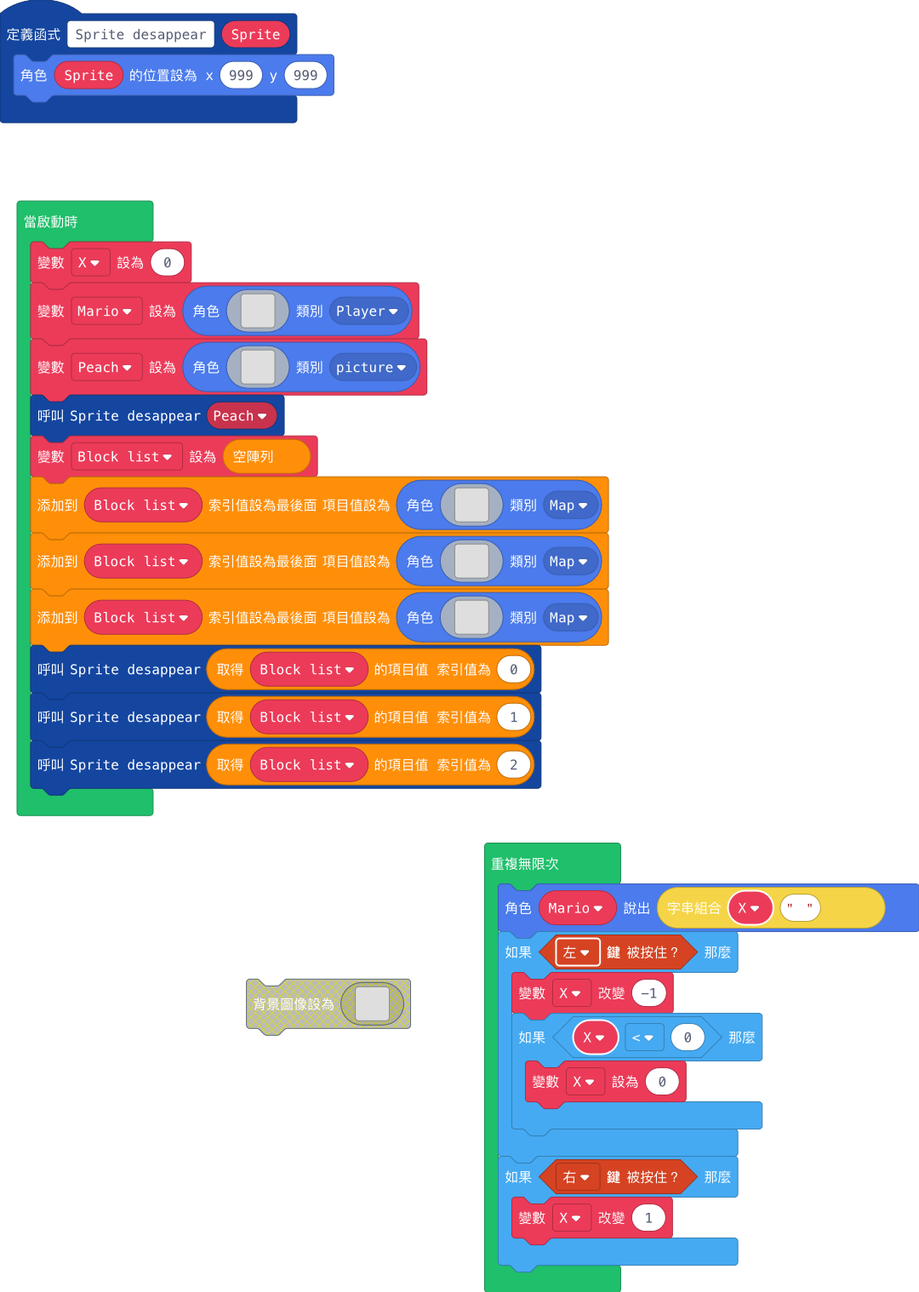
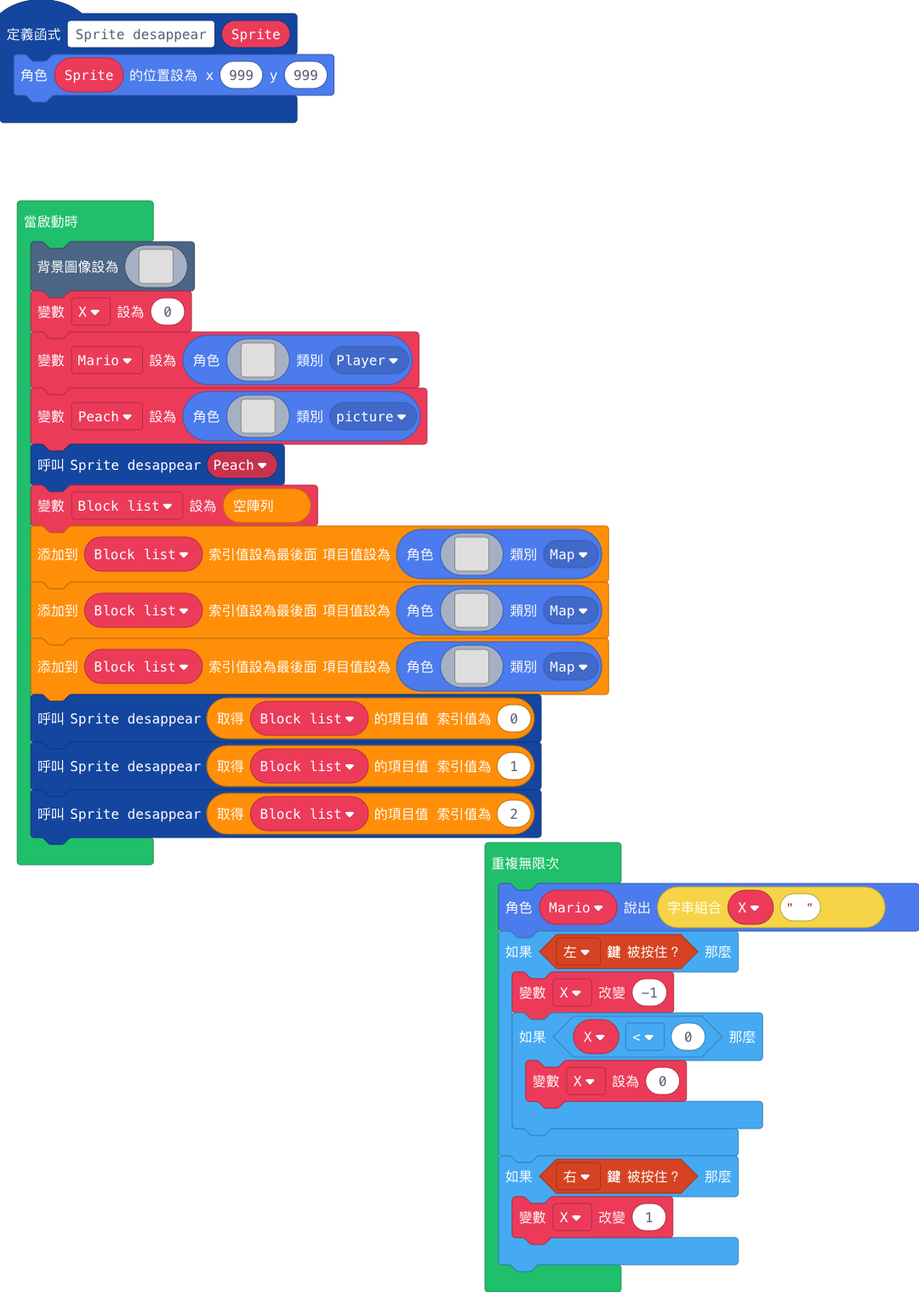
Update main.blocks, main.ts

diff --git a/main.ts b/main.ts
@@ -5,6 +5,128 @@ namespace SpriteKind {
 function Sprite_desappear (Sprite2: Sprite) {
     Sprite2.setPosition(999, 999)
 }
+scene.setBackgroundImage(img`
+9 9 9 9 9 9 9 9 9 9 9 9 9 9 9 9 9 9 9 9 9 9 9 9 9 9 9 9 9 9 9 9 9 9 9 9 9 9 9 9 9 9 9 9 9 9 9 9 9 9 9 9 9 9 9 9 9 9 9 9 9 9 9 9 9 9 9 9 9 9 9 9 9 9 9 9 9 9 9 9 9 9 9 9 9 9 9 9 9 9 9 9 9 9 9 9 9 9 9 9 9 9 9 9 9 9 9 9 9 9 9 9 9 9 9 9 9 9 9 9 9 9 9 9 9 9 9 9 9 9 9 9 9 9 9 9 9 9 9 9 9 9 9 9 9 9 9 9 9 9 9 9 9 9 9 9 9 9 9 9 
+9 9 9 9 9 9 9 9 9 9 9 9 9 9 9 9 9 9 9 9 9 9 9 9 9 9 9 9 9 9 9 9 9 9 9 9 9 9 9 9 9 9 9 9 9 9 9 9 9 9 9 9 9 9 9 9 9 9 9 9 9 9 9 9 9 9 9 9 9 9 9 9 9 9 9 9 9 9 9 9 9 9 9 9 9 9 9 9 9 9 9 9 9 9 9 9 9 9 9 9 9 9 9 9 9 9 9 9 9 9 9 9 9 9 9 9 9 9 9 9 9 9 9 9 9 9 9 9 9 9 9 9 9 9 9 9 9 9 9 9 9 9 9 9 9 9 9 9 9 9 9 9 9 9 9 9 9 9 9 9 
+9 9 9 9 9 9 9 9 9 9 9 9 9 9 9 9 9 9 9 9 9 9 9 9 9 9 9 9 9 9 9 9 9 9 9 9 9 9 9 9 9 9 9 9 9 9 9 9 9 9 9 9 9 9 9 9 9 9 9 9 9 9 9 9 9 9 9 9 9 9 9 9 9 9 9 9 9 9 9 9 9 9 9 9 9 9 9 9 9 9 9 9 9 9 9 9 9 9 9 9 9 9 9 9 9 9 9 9 9 9 9 9 9 9 9 9 9 9 9 9 9 9 9 9 9 9 9 9 9 9 9 9 9 9 9 9 9 9 9 9 9 9 9 9 9 9 9 9 9 9 9 9 9 9 9 9 9 9 9 9 
+9 9 9 9 9 9 9 9 9 9 9 9 9 9 9 9 9 9 9 9 9 9 9 9 9 9 9 9 9 9 9 9 9 9 9 9 9 9 9 9 9 9 9 9 9 9 9 9 9 9 9 9 9 9 9 9 9 9 9 9 9 9 9 9 9 9 9 9 9 9 9 9 9 9 9 9 9 9 9 9 9 9 9 9 9 9 9 9 9 9 9 9 9 9 9 9 9 9 9 9 9 9 9 9 9 9 9 9 9 9 9 9 9 9 9 9 9 9 9 9 9 9 9 9 9 9 9 9 9 9 9 9 9 9 9 9 9 9 9 9 9 9 9 9 9 9 9 9 9 9 9 9 9 9 9 9 9 9 9 9 
+9 9 9 9 9 9 9 9 9 9 9 9 9 9 9 9 9 9 9 9 9 9 9 9 9 9 9 9 9 9 9 9 9 9 9 9 9 9 9 9 9 9 9 9 9 9 9 9 9 9 9 9 9 9 9 9 9 9 9 9 9 9 9 9 9 9 9 9 9 9 9 9 9 9 9 9 9 9 9 9 9 9 9 9 9 9 9 9 9 9 9 9 9 9 9 9 9 9 9 9 9 9 9 9 9 9 9 9 9 9 9 9 9 9 9 9 9 9 9 9 9 9 9 9 9 9 9 9 9 9 9 9 9 9 9 9 9 9 9 9 9 9 9 9 9 9 9 9 9 9 9 9 9 9 9 9 9 9 9 9 
+9 9 9 9 9 9 9 9 9 9 9 9 9 9 9 9 9 9 9 9 9 9 9 9 9 9 9 9 9 9 9 9 9 9 9 9 9 9 9 9 9 9 9 9 9 9 9 9 9 9 9 9 9 9 9 9 9 9 9 9 9 9 9 9 9 9 9 9 9 9 9 9 9 9 9 9 9 9 9 9 9 9 9 9 9 9 9 9 9 9 9 9 9 9 9 9 9 9 9 9 9 9 9 9 9 9 9 9 9 9 9 9 9 9 9 9 9 9 9 9 9 9 9 9 9 9 9 9 9 9 9 9 9 9 9 9 9 9 9 9 9 9 9 9 9 9 9 9 9 9 9 9 9 9 9 9 9 9 9 9 
+9 9 9 9 9 9 9 9 9 9 9 9 9 9 9 9 9 9 9 9 9 9 9 9 9 9 9 9 9 9 9 9 9 9 9 9 9 9 9 9 9 9 9 9 9 9 9 9 9 9 9 9 9 9 9 9 9 9 9 9 9 9 9 9 9 9 9 9 9 9 9 9 9 9 9 9 9 9 9 9 9 9 9 9 9 9 9 9 9 9 9 9 9 9 9 9 9 9 9 9 9 9 9 9 9 9 9 9 9 9 9 9 9 9 9 9 9 9 9 9 9 9 9 9 9 9 9 9 9 9 9 9 9 9 9 9 9 9 9 9 9 9 9 9 9 9 9 9 9 9 9 9 9 9 9 9 9 9 9 9 
+9 9 9 9 9 9 9 9 9 9 9 9 9 9 9 9 9 9 9 9 9 9 9 9 9 9 9 9 9 9 9 9 9 9 9 9 9 9 9 9 9 9 9 9 9 9 9 9 9 9 9 9 9 9 9 9 9 9 9 9 9 9 9 9 9 9 9 9 9 9 9 9 9 9 9 9 9 9 9 9 9 9 9 9 9 9 9 9 9 9 9 9 9 9 9 9 9 9 9 9 9 9 9 9 9 9 9 9 9 9 9 9 9 9 9 9 9 9 9 9 9 9 9 9 9 9 9 9 9 9 9 9 9 9 9 9 9 9 9 9 9 9 9 9 9 9 9 9 9 9 9 9 9 9 9 9 9 9 9 9 
+9 9 9 9 9 9 9 9 9 9 9 9 9 9 9 9 9 9 9 9 9 9 9 9 9 9 9 9 9 9 9 9 9 9 9 9 9 9 9 9 9 9 9 9 9 9 9 9 9 9 9 9 9 9 9 9 9 9 9 9 9 9 9 9 9 9 9 9 9 9 9 9 9 9 9 9 9 9 9 9 9 9 9 9 9 9 9 9 9 9 9 9 9 9 9 9 9 9 9 9 9 9 9 9 9 9 9 f f f f f f f f f f f f f f f 9 9 9 9 9 9 9 9 9 9 9 9 9 9 9 9 9 9 9 9 9 9 9 9 9 9 9 9 9 9 9 9 9 9 9 9 9 9 
+9 9 9 9 9 9 9 9 9 9 9 9 9 9 9 9 9 9 9 9 9 9 9 9 9 9 9 9 9 9 9 9 9 9 9 9 9 9 9 9 9 9 9 9 9 9 9 9 9 9 9 9 9 9 9 9 9 9 9 9 9 9 9 9 9 9 9 9 9 9 9 9 9 9 9 9 9 9 9 9 9 9 9 9 9 9 9 9 9 9 9 9 9 9 9 9 9 9 9 9 9 9 9 9 9 f f 1 1 1 1 1 1 1 1 1 1 1 1 1 1 1 f f 9 9 9 9 9 9 9 9 9 9 9 9 9 9 9 9 9 9 9 9 9 9 9 9 9 9 9 9 9 9 9 9 9 9 9 9 
+9 9 9 9 9 9 9 9 9 9 9 9 9 9 9 9 9 9 9 9 9 9 9 9 9 9 9 9 9 9 9 9 9 9 9 9 9 9 9 9 9 9 9 9 9 9 9 9 9 9 9 9 9 9 9 9 9 9 9 9 9 9 9 9 9 9 9 9 9 9 9 9 9 9 9 9 9 9 9 9 9 9 9 9 9 9 9 9 9 9 9 9 9 9 9 9 9 9 9 9 9 f f f f 1 1 1 1 1 1 1 1 1 1 1 1 1 1 1 1 1 1 1 f f 9 9 9 9 9 9 9 9 9 9 9 9 9 9 9 9 9 9 9 9 9 9 9 9 9 9 9 9 9 9 9 9 9 9 
+9 9 9 9 9 9 9 9 9 9 9 9 9 9 9 9 9 9 9 9 9 9 9 9 9 9 9 9 9 9 9 9 9 9 9 9 9 9 9 9 9 9 9 9 9 9 9 9 9 9 9 9 9 9 9 9 9 9 9 9 9 9 9 9 9 9 9 9 9 9 9 9 9 9 9 9 9 9 9 9 9 9 9 9 9 9 9 9 9 9 9 9 9 9 9 9 9 9 9 9 f f 1 1 1 1 1 1 1 1 1 1 1 1 1 1 1 1 1 1 1 1 1 1 1 f f 9 9 9 9 9 9 9 9 9 9 9 9 9 9 9 9 9 9 9 9 9 9 9 9 9 9 9 9 9 9 9 9 9 
+9 9 9 9 9 9 9 9 9 9 9 9 9 9 9 9 9 9 9 9 9 9 9 9 9 9 9 9 9 9 9 9 9 9 9 9 9 9 9 9 9 9 9 9 9 9 9 9 9 9 9 9 9 9 9 9 9 9 9 9 9 9 9 9 9 9 9 9 9 9 9 9 9 9 9 9 9 9 9 9 9 9 9 9 9 9 9 9 9 9 9 9 9 9 9 9 9 9 9 f f 1 1 1 1 1 1 1 1 1 1 1 1 1 1 1 1 1 1 1 1 1 1 1 1 1 1 f f 9 9 9 9 9 9 9 9 9 9 9 9 9 9 9 9 9 9 9 9 9 9 9 9 9 9 9 9 9 9 9 
+9 9 9 9 9 9 9 9 9 9 9 9 9 9 9 9 9 9 9 9 9 9 9 9 9 9 9 9 9 9 9 9 9 9 9 9 9 9 9 9 9 9 9 9 9 9 9 9 9 9 9 9 9 9 9 9 9 9 9 9 9 9 9 9 9 9 9 9 9 9 9 9 9 9 9 9 9 9 9 9 9 9 9 9 9 9 9 9 9 9 9 9 9 9 9 9 9 9 f 1 1 1 1 1 1 1 1 1 1 1 1 1 1 1 1 1 1 1 1 1 1 1 1 1 1 1 1 1 f f 9 9 9 9 9 9 9 9 9 9 9 9 9 9 9 9 9 9 9 9 9 9 9 9 9 9 9 9 9 9 
+9 9 9 9 9 9 9 9 9 9 9 9 9 9 9 9 9 9 9 9 9 9 9 9 9 9 9 9 9 9 9 9 9 9 9 9 9 9 9 9 9 9 9 9 9 9 9 9 9 9 9 9 9 9 9 9 9 9 9 9 9 9 9 9 9 9 9 9 9 9 9 9 9 9 9 9 9 9 9 9 9 9 9 9 9 9 9 9 9 9 9 9 9 9 9 9 9 f f 1 1 1 1 1 1 1 1 1 1 1 1 1 1 1 1 1 1 1 1 1 1 1 1 1 1 1 1 1 1 1 f 9 9 9 9 9 9 9 9 9 9 9 9 9 9 9 9 9 9 9 9 9 9 9 9 9 9 9 9 9 
+9 9 9 9 9 9 9 9 9 9 9 9 9 9 9 9 9 9 9 9 9 9 9 9 9 9 9 9 9 9 9 9 9 9 9 9 9 9 9 9 9 9 9 9 9 9 9 9 9 9 9 9 9 9 9 9 9 9 9 9 9 9 9 9 9 9 9 9 9 9 9 9 9 9 9 9 9 9 9 9 9 9 9 9 9 9 9 9 9 9 9 9 9 9 9 9 f 1 1 1 1 1 1 1 1 1 1 1 1 1 1 1 1 1 1 1 1 1 1 1 1 1 1 1 1 1 1 1 1 1 f f 9 9 9 9 9 9 9 9 9 9 9 9 9 9 9 9 9 9 9 9 9 9 9 9 9 9 9 9 
+9 9 9 9 9 9 9 9 9 9 9 9 9 9 9 9 9 9 9 9 9 9 9 9 9 9 9 9 9 9 9 9 9 9 9 9 9 9 9 9 9 9 9 9 9 9 9 9 9 9 9 9 9 9 9 9 9 9 9 9 9 9 9 9 9 9 9 9 9 9 9 9 9 9 9 9 9 9 9 9 9 9 9 9 9 9 9 9 9 9 9 9 9 9 9 f f 1 1 1 1 1 1 1 1 1 1 1 1 1 1 1 1 1 1 1 1 1 1 1 1 1 1 1 1 1 1 1 1 1 1 f f 9 9 9 9 9 9 9 9 9 9 9 9 9 9 9 9 9 9 9 9 9 9 9 9 9 9 9 
+9 9 9 9 9 9 9 9 9 9 9 9 9 9 9 9 9 9 9 9 9 9 9 9 9 9 9 9 9 9 9 9 9 9 9 9 9 9 9 9 9 9 9 9 9 9 9 9 9 9 9 9 9 9 9 9 9 9 9 9 9 9 9 9 9 9 9 9 9 9 9 9 9 9 9 9 9 9 9 9 9 9 9 9 9 9 9 9 9 9 9 9 9 9 9 f 1 1 1 1 1 1 1 1 1 1 1 1 1 1 1 1 f f f f f f 1 1 1 1 1 1 1 1 1 1 1 1 1 1 f 9 9 9 9 9 9 9 9 9 9 9 9 9 9 9 9 9 9 9 9 9 9 9 9 9 9 9 
+9 9 9 9 9 9 9 9 9 9 9 9 9 9 9 9 9 9 9 9 9 9 9 9 9 9 9 9 9 9 9 9 9 9 9 9 9 9 9 9 9 9 9 9 9 9 9 9 9 9 9 9 9 9 9 9 9 9 9 9 9 9 9 9 9 9 9 9 9 9 9 9 9 9 9 9 9 9 9 9 9 9 9 9 9 9 9 9 9 9 9 9 9 9 9 f 1 1 1 1 1 1 1 1 1 1 1 1 1 1 f f f 1 1 1 1 f 1 1 1 1 1 1 1 1 1 1 1 1 1 1 1 f 9 9 9 9 9 9 9 9 9 9 9 9 9 9 9 9 9 9 9 9 9 9 9 9 9 9 
+9 9 9 9 9 9 9 9 9 9 9 9 9 9 9 9 9 9 9 9 9 9 9 9 9 9 9 9 9 9 9 9 9 9 9 9 9 9 9 9 9 9 9 9 9 9 9 9 9 9 9 9 9 9 9 9 9 9 9 9 9 9 9 9 9 9 9 9 9 9 9 9 9 9 9 9 9 9 9 9 9 9 9 9 9 9 9 9 9 9 9 9 9 9 9 f 1 1 1 1 1 1 1 1 1 1 1 1 1 f f 1 1 1 1 1 1 f f 1 1 1 1 1 1 1 1 1 1 1 1 1 1 1 f 9 9 9 9 9 9 9 9 9 9 9 9 9 9 9 9 9 9 9 9 9 9 9 9 9 
+9 9 9 9 9 9 9 9 9 9 9 9 9 9 9 9 9 9 9 f f f f f f f f f f 9 9 9 9 9 9 9 9 9 9 9 9 9 9 9 9 9 9 9 9 9 9 9 9 9 9 9 9 9 9 9 9 9 9 9 9 9 9 9 9 9 9 9 9 9 9 9 9 9 9 9 9 9 9 9 9 9 9 9 9 9 9 9 9 9 9 f 1 1 1 1 1 1 1 1 1 1 1 1 1 f 1 1 1 1 1 1 1 1 f 1 1 1 1 1 1 1 1 1 1 1 1 1 1 1 1 f 9 9 9 9 9 9 9 9 9 9 9 9 9 9 9 9 9 9 9 9 9 9 9 9 
+9 9 9 9 9 9 9 9 9 9 9 9 9 9 9 9 f f f f 1 1 1 1 1 1 1 1 f f 9 9 9 9 9 9 9 9 9 9 9 9 9 9 9 9 9 9 9 9 9 9 9 9 9 9 9 9 9 9 9 9 9 9 9 9 9 9 9 9 9 9 9 9 9 9 9 9 9 9 9 9 9 9 9 9 9 9 9 9 9 9 9 9 9 f 1 1 1 1 1 1 1 1 1 1 1 1 1 f 1 1 1 1 1 1 1 f f 1 1 1 1 1 1 1 1 1 1 1 1 1 1 1 1 1 f 9 9 9 9 9 9 9 9 9 9 9 9 9 9 9 9 9 9 9 9 9 9 9 
+9 9 9 9 9 9 9 9 9 9 9 9 9 9 9 f f 1 1 1 1 1 1 1 1 1 1 1 1 1 f 9 9 9 9 9 9 9 9 9 9 9 9 9 9 9 9 9 9 9 9 9 9 9 9 9 9 9 9 9 9 9 9 9 9 9 9 9 9 9 9 9 9 9 9 9 9 9 9 9 9 9 9 9 9 9 9 9 9 9 9 9 9 9 9 f 1 1 1 1 1 1 1 1 1 1 1 1 1 f 1 1 1 1 1 1 1 f 1 1 1 1 1 1 1 1 1 1 1 1 1 1 1 1 1 1 1 f 9 9 9 9 9 9 9 9 9 9 9 9 9 9 9 9 9 9 9 9 9 9 
+9 9 9 9 9 9 9 9 9 9 9 9 9 9 f f 1 1 1 1 1 1 1 1 1 1 1 1 1 1 f 9 9 9 9 9 9 9 9 9 9 9 9 9 9 9 9 9 9 9 9 9 9 9 9 9 9 9 9 9 9 9 9 9 9 9 9 9 9 9 9 9 9 9 9 9 9 9 9 9 9 9 9 9 9 9 9 9 9 9 9 9 9 9 9 f 1 1 1 1 1 1 1 1 1 1 1 1 1 f 1 1 1 1 1 1 1 f 1 1 1 1 1 1 1 1 1 1 1 1 1 1 1 1 1 1 1 f f 9 9 9 9 9 9 9 9 9 9 9 9 9 9 9 9 9 9 9 9 9 
+9 9 9 9 9 9 9 9 9 9 9 9 9 9 f 1 1 1 1 1 1 1 1 1 1 1 1 1 1 1 1 f 9 9 9 9 9 9 9 9 9 9 9 9 9 9 9 9 9 9 9 9 9 9 9 9 9 9 9 9 9 9 9 9 9 9 9 9 9 9 9 9 9 9 9 9 9 9 9 9 9 9 9 9 9 9 9 9 9 9 9 9 9 9 9 f 1 1 1 1 1 1 1 1 1 1 1 1 1 f 1 1 1 1 1 1 1 1 1 1 1 1 1 1 1 1 1 1 1 1 1 1 1 1 1 1 1 1 f f 9 9 9 9 9 9 9 9 9 9 9 9 9 9 9 9 9 9 9 9 
+9 9 9 9 9 9 9 9 9 9 9 9 9 f 1 1 1 1 1 1 1 1 1 1 1 1 1 1 1 1 1 f 9 9 9 9 9 9 9 9 9 9 9 9 9 9 9 9 9 9 9 9 9 9 9 9 9 9 9 9 9 9 9 9 9 9 9 9 9 9 9 9 9 9 9 9 9 9 9 9 9 9 9 9 9 9 9 9 9 9 9 9 9 9 9 f 1 1 1 1 1 1 1 1 1 1 1 1 1 f 1 1 1 1 1 1 1 1 1 1 1 1 1 1 1 1 1 1 1 1 1 1 1 1 1 1 1 1 1 f f 9 9 9 9 9 9 9 9 9 9 9 9 9 9 9 9 9 9 9 
+9 9 9 9 9 9 9 9 9 9 9 9 f 1 1 1 1 1 1 1 1 1 1 1 1 1 1 1 1 1 1 1 f 9 9 9 9 9 9 9 9 9 9 9 9 9 9 9 9 9 9 9 9 9 9 9 9 9 9 9 9 9 9 9 9 9 9 9 9 9 9 9 9 9 9 9 9 9 9 9 9 9 9 9 9 9 9 9 9 9 9 9 9 9 9 f 1 1 1 1 1 1 1 1 1 1 1 1 1 f 1 1 1 1 1 1 1 1 1 1 1 1 1 1 1 1 1 1 1 1 1 1 1 1 1 1 1 1 1 1 f f 9 9 9 9 9 9 9 9 9 9 9 9 9 9 9 9 9 9 
+9 9 9 9 9 9 9 9 9 9 9 9 f 1 1 1 1 1 1 1 1 1 1 1 1 1 1 1 1 1 1 1 f f 9 9 9 9 9 9 9 9 9 9 9 9 9 9 9 9 9 9 9 9 9 9 9 9 9 9 9 9 9 9 9 9 9 9 9 9 9 9 9 9 9 9 9 9 9 9 9 9 9 9 9 9 9 9 9 9 9 9 9 9 9 f 1 1 1 1 1 1 1 1 1 1 1 1 1 f 1 1 1 1 1 1 1 1 1 1 1 1 1 1 1 1 1 1 1 1 1 1 1 1 1 1 1 1 1 1 1 f 9 9 9 9 9 9 9 9 9 9 9 9 9 9 9 9 9 9 
+9 9 9 9 9 9 9 9 9 9 9 9 f 1 1 1 1 1 1 1 1 1 1 1 1 1 1 1 1 1 1 1 1 f 9 9 9 9 9 9 9 9 9 9 9 9 9 9 9 9 9 9 9 9 9 9 9 9 9 9 9 9 9 9 9 9 9 9 9 9 9 9 9 9 9 9 9 9 9 9 9 9 9 9 9 9 9 9 9 9 9 9 9 9 9 f f 1 1 1 1 1 1 1 1 1 1 1 1 f 1 1 1 1 1 1 1 1 1 1 1 1 1 1 1 1 1 1 1 1 1 1 1 1 1 1 1 1 1 1 1 f f 9 9 9 9 9 9 9 9 9 9 9 9 9 9 9 9 9 
+9 9 9 9 9 9 9 9 9 9 9 9 f 1 1 1 1 1 1 1 1 1 1 1 1 1 1 1 1 1 1 1 1 f f 9 9 9 9 9 9 9 9 9 9 9 9 9 9 9 9 9 9 9 9 9 9 9 9 9 9 9 9 9 9 9 9 9 9 9 9 9 9 9 9 9 9 9 9 9 9 9 9 9 9 9 9 9 9 9 9 9 9 9 9 9 f 1 1 1 1 1 1 1 1 1 1 1 1 1 f 1 1 1 1 1 1 1 1 1 1 1 1 1 1 1 1 1 1 1 1 1 1 1 1 1 1 1 1 1 1 1 f f f 9 9 9 9 9 9 9 9 9 9 9 9 9 9 9 
+9 9 9 9 9 9 9 9 9 9 9 9 f 1 1 1 1 1 1 1 f f f f f 1 1 1 1 1 1 1 1 1 f 9 9 9 9 9 9 9 9 9 9 9 9 9 9 9 9 9 9 9 9 9 9 9 9 9 9 9 9 9 9 9 9 9 9 9 9 9 9 9 9 9 9 9 9 9 9 9 9 9 9 9 9 9 9 9 9 9 9 9 9 9 f f 1 1 1 1 1 1 1 1 1 1 1 1 1 f 1 1 1 1 1 1 1 1 1 1 1 1 1 1 1 1 1 1 1 1 1 1 1 1 1 1 1 1 1 1 1 1 f f 9 9 9 9 9 9 9 9 9 9 9 9 9 9 
+9 9 9 9 9 9 9 9 9 9 9 9 f 1 1 1 1 1 1 f 1 1 1 1 f 1 1 1 1 1 1 1 1 1 f f 9 9 9 9 9 9 9 9 9 9 9 9 9 9 9 9 9 9 9 9 9 9 9 9 9 9 9 9 9 9 9 9 9 9 9 9 9 9 9 9 9 9 9 9 9 9 9 9 9 9 9 9 9 9 9 9 9 9 9 9 9 f 1 1 1 1 1 1 1 1 1 1 1 1 1 1 f 1 1 1 1 1 1 1 1 1 1 1 1 1 1 1 1 1 1 1 1 1 1 1 1 1 1 1 1 1 f f f f 9 9 9 9 9 9 9 9 9 9 9 9 9 9 
+9 9 9 9 9 9 9 9 9 9 9 9 f 1 1 1 1 1 1 f 1 1 1 1 f 1 1 1 1 1 1 1 1 1 1 f f 9 9 9 9 9 9 9 9 9 9 9 9 9 9 9 9 9 9 9 9 9 9 9 9 9 9 9 9 9 9 9 9 9 9 9 9 9 9 9 9 9 9 9 9 9 9 9 9 9 9 9 9 9 9 9 9 9 9 9 9 9 f 1 1 1 1 1 1 1 1 1 1 1 1 1 f 1 1 1 1 1 1 1 1 1 1 1 1 1 1 1 1 1 1 1 1 1 1 1 1 1 1 1 f f 9 9 9 9 9 9 9 9 9 9 9 9 9 9 9 9 9 9 
+9 9 9 9 9 9 9 9 9 9 9 9 f 1 1 1 1 1 1 f 1 1 1 1 1 1 1 1 1 1 1 1 1 1 1 1 f f 9 9 9 9 9 9 9 9 9 9 9 9 9 9 9 9 9 9 9 9 9 9 9 9 9 9 9 9 9 9 9 9 9 9 9 9 9 9 9 9 9 9 9 9 9 9 9 9 9 9 9 9 9 9 9 9 9 9 9 9 9 f f 1 1 1 1 1 1 1 1 1 1 1 1 f 1 1 1 1 1 1 1 1 1 1 1 1 1 1 1 1 1 1 1 1 1 1 1 f f f f 9 9 9 9 9 9 9 9 9 9 9 9 9 9 9 9 9 9 9 
+9 9 9 9 9 9 9 9 9 9 9 9 f 1 1 1 1 1 1 f f 1 1 1 1 1 1 1 1 1 1 1 1 1 1 1 1 f 9 9 9 9 9 9 9 9 9 9 9 9 9 9 9 9 9 9 9 9 9 9 9 9 9 9 9 9 9 9 9 9 9 9 9 9 9 9 9 9 9 9 9 9 9 9 9 9 9 9 9 9 9 9 9 9 9 9 9 9 9 9 9 f f f 1 1 1 1 1 1 1 1 1 f f f 1 1 1 1 1 1 1 1 1 1 1 f f f f f f f f f f 9 9 9 9 9 9 9 9 9 9 9 9 9 9 9 9 9 9 9 9 9 9 9 
+9 9 9 9 9 9 9 9 9 9 9 9 f 1 1 1 1 1 1 1 f 1 1 1 1 1 1 1 1 1 1 1 1 1 1 1 1 1 f f 9 9 9 9 9 9 9 9 9 9 9 9 9 9 9 9 9 9 9 9 9 9 9 9 9 9 9 9 9 9 9 9 9 9 9 9 9 9 9 9 9 9 9 9 9 9 9 9 9 9 9 9 9 9 9 9 9 9 9 9 9 9 9 f f f f f f f f f f f f f f f f f f f f f f f f 9 9 9 9 9 9 9 9 9 9 9 9 9 9 9 9 9 9 9 9 9 9 9 9 9 9 9 9 9 9 9 9 9 
+9 9 9 9 9 9 9 9 9 9 9 9 f f 1 1 1 1 1 1 1 f 1 1 1 1 1 1 1 1 1 1 1 1 1 1 1 1 1 1 f f 9 9 9 9 9 9 9 9 9 9 9 9 9 9 9 9 9 9 9 9 9 9 9 9 9 9 9 9 9 9 9 9 9 9 9 9 9 9 9 9 9 9 9 9 9 9 9 9 9 9 9 9 9 9 9 9 9 9 9 9 9 9 9 9 9 9 9 9 9 9 9 9 9 9 9 9 9 9 9 9 9 9 9 9 9 9 9 9 9 9 9 9 9 9 9 9 9 9 9 9 9 9 9 9 9 9 9 9 9 9 9 9 9 9 9 9 9 9 
+9 9 9 9 9 9 9 9 9 9 9 9 9 f 1 1 1 1 1 1 1 1 f f 1 1 1 1 1 1 1 1 1 1 1 1 1 1 1 1 1 f f f f f 9 9 9 9 9 9 9 9 9 9 9 9 9 9 9 9 9 9 9 9 9 9 9 9 9 9 9 9 9 9 9 9 9 9 9 9 9 9 9 9 9 9 9 9 9 9 9 9 9 9 9 9 9 9 9 9 9 9 9 9 9 9 9 9 9 9 9 9 9 9 9 9 9 9 9 9 9 9 9 9 9 9 9 9 9 9 9 9 9 9 9 9 9 9 9 9 9 9 9 9 9 9 9 9 9 9 9 9 9 9 9 9 9 9 
+9 9 9 9 9 9 9 9 9 9 9 9 9 f f f 1 1 1 1 1 1 1 f f f 1 1 1 1 1 1 1 1 1 1 1 1 1 1 1 1 1 1 1 f f f 9 9 9 9 9 9 9 9 9 9 9 9 9 9 9 9 9 9 9 9 9 9 9 9 9 9 9 9 9 9 9 9 9 9 9 9 9 9 9 9 9 9 9 9 9 9 9 9 9 9 9 9 9 9 9 9 9 9 9 9 9 9 9 9 9 9 9 9 9 9 9 9 9 9 9 9 9 9 9 9 9 9 9 9 9 9 9 9 9 9 9 9 9 9 9 9 9 9 9 9 9 9 9 9 9 9 9 9 9 9 9 9 
+9 9 9 9 9 9 9 9 9 9 9 9 9 9 9 f f 1 1 1 1 1 1 1 1 1 f 1 1 1 1 1 1 1 1 1 1 1 1 1 1 1 1 1 1 f f f 9 9 9 9 9 9 9 9 9 9 9 9 9 9 9 9 9 9 9 9 9 9 9 9 9 9 9 9 9 9 9 9 9 9 9 9 9 9 9 9 9 9 9 9 9 9 9 9 9 9 9 9 9 9 9 9 9 9 9 9 9 9 9 9 9 9 9 9 9 9 9 9 9 9 9 9 9 9 9 9 9 9 9 9 9 9 9 9 9 9 9 9 9 9 9 9 9 9 9 9 9 9 9 9 9 9 9 9 9 9 9 9 
+9 9 9 9 9 9 9 9 9 9 9 9 9 9 9 9 f f f f f f f f f f f f f f f f f f f f f f f f f f f f f 9 9 9 9 9 9 9 9 9 9 9 9 9 9 9 9 9 9 9 9 9 9 9 9 9 9 9 9 9 9 9 9 9 9 9 9 9 9 9 9 9 9 9 9 9 9 9 9 9 9 9 9 9 9 9 9 9 9 9 9 9 9 9 9 9 9 9 9 9 9 9 9 9 9 9 9 9 9 9 9 9 9 9 9 9 9 9 9 9 9 9 9 9 9 9 9 9 9 9 9 9 9 9 9 9 9 9 9 9 9 9 9 9 9 9 
+9 9 9 9 9 9 9 9 9 9 9 9 9 9 9 9 9 9 9 9 9 9 9 9 9 9 9 9 9 9 9 9 9 9 9 9 9 9 9 9 9 9 9 9 9 9 9 9 9 9 9 9 9 9 9 9 9 9 9 9 9 9 9 9 9 9 9 9 9 9 9 9 9 9 9 9 9 9 9 9 9 9 9 9 9 9 9 9 9 9 9 9 9 9 9 9 9 9 9 9 9 9 9 9 9 9 9 9 9 9 9 9 9 9 9 9 9 9 9 9 9 9 9 9 9 9 9 9 9 9 9 9 9 9 9 9 9 9 9 9 9 9 9 9 9 9 9 9 9 9 9 9 9 9 9 9 9 9 9 9 
+9 9 9 9 9 9 9 9 9 9 9 9 9 9 9 9 9 9 9 9 9 9 9 9 9 9 9 9 9 9 9 9 9 9 9 9 9 9 9 9 9 9 9 9 9 9 9 9 9 9 9 9 9 9 9 9 9 9 9 9 9 9 9 9 9 9 9 9 9 9 9 9 9 9 9 9 9 9 9 9 9 9 9 9 9 9 9 9 9 9 9 9 9 9 9 9 9 9 9 9 9 9 9 9 9 9 9 9 9 9 9 9 9 9 9 9 9 9 9 9 9 9 9 9 9 9 9 9 9 9 9 9 9 9 9 9 9 9 9 9 9 9 9 9 9 9 9 9 9 9 9 9 9 9 9 9 9 9 9 9 
+9 9 9 9 9 9 9 9 9 9 9 9 9 9 9 9 9 9 9 9 9 9 9 9 9 9 9 9 9 9 9 9 9 9 9 9 9 9 9 9 9 9 9 9 9 9 9 9 9 9 9 9 9 9 9 9 9 9 9 9 9 9 9 9 9 9 9 9 9 9 9 9 9 9 9 9 9 9 9 9 9 9 9 9 9 9 9 9 9 9 9 9 9 9 9 9 9 9 9 9 9 9 9 9 9 9 9 9 9 9 9 9 9 9 9 9 9 9 9 9 9 9 9 9 9 9 9 9 9 9 9 9 9 9 9 9 9 9 9 9 9 9 9 9 9 9 9 9 9 9 9 9 9 9 9 9 9 9 9 9 
+9 9 9 9 9 9 9 9 9 9 9 9 9 9 9 9 9 9 9 9 9 9 9 9 9 9 9 9 9 9 9 9 9 9 9 9 9 9 9 9 9 9 9 9 9 9 9 9 9 9 9 9 9 9 9 9 9 9 9 9 9 9 9 9 f f f f f 9 9 9 9 9 9 9 9 9 9 9 9 9 9 9 9 9 9 9 9 9 9 9 9 9 9 9 9 9 9 9 9 9 9 9 9 9 9 9 9 9 9 9 9 9 9 9 9 9 9 9 9 9 9 9 9 9 9 9 9 9 9 9 9 9 9 9 9 9 9 9 9 9 9 9 9 9 9 9 9 9 9 9 9 9 9 9 9 9 9 9 
+9 9 9 9 9 9 9 9 9 9 9 9 9 9 9 9 9 9 9 9 9 9 9 9 9 9 9 9 9 9 9 9 9 9 9 9 9 9 9 9 9 9 9 9 9 9 9 9 9 9 9 9 9 9 9 9 9 9 9 9 9 9 f f 1 1 1 1 1 f f f 9 9 9 9 9 9 9 9 9 9 9 9 9 9 9 9 9 9 9 9 9 9 9 9 9 9 9 9 9 9 9 9 9 9 9 9 9 9 9 9 9 9 9 9 9 9 9 9 9 9 9 9 9 9 9 9 9 9 9 9 9 9 9 9 9 9 9 9 9 9 9 9 9 9 9 9 9 9 9 9 9 9 9 9 9 9 9 9 
+9 9 9 9 9 9 9 9 9 9 9 9 9 9 9 9 9 9 9 9 9 9 9 9 9 9 9 9 9 9 9 9 9 9 9 9 9 9 9 9 9 9 9 9 9 9 9 9 9 9 9 9 9 9 9 9 9 9 9 9 f f 1 1 1 1 1 1 1 1 1 f f f 9 9 9 9 9 9 9 9 9 9 9 9 9 9 9 9 9 9 9 9 9 9 9 9 9 9 9 9 9 9 9 9 9 9 9 9 9 9 9 9 9 9 9 9 9 9 9 9 9 9 9 9 9 9 9 9 9 9 9 9 9 9 9 9 9 9 9 9 9 9 9 9 9 9 9 9 9 9 9 9 9 9 9 9 9 9 
+9 9 9 9 9 9 9 9 9 9 9 9 9 9 9 9 9 9 9 9 9 9 9 9 9 9 9 9 9 9 9 9 9 9 9 9 9 9 9 9 9 9 9 9 9 9 9 9 9 9 9 9 9 9 9 9 9 9 9 f f 1 1 1 1 1 1 1 1 1 1 1 1 f f f 9 9 9 9 9 9 9 9 9 9 9 9 9 9 9 9 9 9 9 9 9 9 9 9 9 9 9 9 9 9 9 9 9 9 9 9 9 9 9 9 9 9 9 9 9 9 9 9 9 9 9 9 9 9 9 9 9 9 9 9 9 9 9 9 9 9 9 9 9 9 9 9 9 9 9 9 9 9 9 9 9 9 9 9 
+9 9 9 9 9 9 9 9 9 9 9 9 9 9 9 9 9 9 9 9 9 9 9 9 9 9 9 9 9 9 9 9 9 9 9 9 9 9 9 9 9 9 9 9 9 9 9 9 9 9 9 9 9 9 9 9 9 9 f f 1 1 1 1 1 1 1 1 1 1 1 1 1 1 1 f f f 9 9 9 9 9 9 9 9 9 9 9 9 9 9 9 9 9 9 9 9 9 9 9 9 9 9 9 9 9 9 9 9 9 9 9 9 9 9 9 9 9 9 9 9 9 9 9 9 9 9 9 9 9 9 9 9 9 9 9 9 9 9 9 9 9 9 9 9 9 9 9 9 9 9 9 9 9 9 9 9 9 9 
+9 9 9 9 9 9 9 9 9 9 9 9 9 9 9 9 9 9 9 9 9 9 9 9 9 9 9 9 9 9 9 9 9 9 9 9 9 9 9 9 9 9 9 9 9 9 9 9 9 9 9 9 9 9 9 9 9 f f 1 1 1 1 1 1 1 1 1 1 1 1 1 1 1 1 1 1 f f 9 9 9 9 9 9 9 9 9 9 9 9 9 9 9 9 9 9 9 9 9 9 9 9 9 9 9 9 9 9 9 9 9 9 9 9 9 9 9 9 9 9 9 9 9 9 9 9 9 9 9 9 9 9 9 9 9 9 9 9 9 9 9 9 9 9 9 9 9 9 9 9 9 9 9 9 9 9 9 9 9 
+9 9 9 9 9 9 9 9 9 9 9 9 9 9 9 9 9 9 9 9 9 9 9 9 9 9 9 9 9 9 9 9 9 9 9 9 9 9 9 9 9 9 9 9 9 9 9 9 9 9 9 9 9 9 9 9 f f 1 1 1 1 1 1 1 1 1 1 1 1 1 1 1 1 1 1 1 1 1 f 9 9 9 9 9 9 9 9 9 9 9 9 9 9 9 9 9 9 9 9 9 9 9 9 9 9 9 9 9 9 9 9 9 9 9 9 9 9 9 9 9 9 9 9 9 9 9 9 9 9 9 9 9 9 9 9 9 9 9 9 9 9 9 9 9 9 9 9 9 9 9 9 9 9 9 9 9 9 9 9 
+9 9 9 9 9 9 9 9 9 9 9 9 9 9 9 9 9 9 9 9 9 9 9 9 9 9 9 9 9 9 9 9 9 9 9 9 9 9 9 9 9 9 9 9 9 9 9 9 9 9 9 9 9 9 9 9 f 1 1 1 1 1 1 1 1 1 1 1 1 1 1 1 1 1 1 1 1 1 1 1 f f 9 9 9 9 9 9 9 9 9 9 9 9 9 9 9 9 9 9 9 9 9 9 9 9 9 9 9 9 9 9 9 9 9 9 9 9 9 9 9 9 9 9 9 9 9 9 9 9 9 9 9 9 9 9 9 9 9 9 9 9 9 9 9 9 9 9 9 9 9 9 9 9 9 9 9 9 9 9 
+9 9 9 9 9 9 9 9 9 9 9 9 9 9 9 9 9 9 9 9 9 9 9 9 9 9 9 9 9 9 9 9 9 9 9 9 9 9 9 9 9 9 9 9 9 9 9 9 9 9 9 9 9 9 9 f f 1 1 1 1 1 1 1 1 1 1 1 1 f f f f f 1 1 1 1 1 1 1 1 f 9 9 9 9 9 9 9 9 9 9 9 9 9 9 9 9 9 9 9 9 9 9 9 9 9 9 9 9 9 9 9 9 9 9 9 9 9 9 9 9 9 9 9 9 9 9 9 9 9 9 9 9 9 9 9 9 9 9 9 9 9 9 9 9 9 9 9 9 9 9 9 9 9 9 9 9 9 
+9 9 9 9 9 9 9 9 9 9 9 9 9 9 9 9 9 9 9 9 9 9 9 9 9 9 9 9 9 9 9 9 9 9 9 9 9 9 9 9 9 9 9 9 9 9 9 9 9 9 9 9 9 9 9 f 1 1 1 1 1 1 1 1 1 1 1 f f f 1 1 1 f 1 1 1 1 1 1 1 1 1 f f 9 9 9 9 9 9 9 9 9 9 9 9 9 9 9 9 9 9 9 9 9 9 9 9 9 9 9 9 9 9 9 9 9 9 9 9 9 9 9 9 9 9 9 9 9 9 9 9 9 9 9 9 9 9 9 9 9 9 9 9 9 9 9 9 9 9 9 9 9 9 9 9 9 9 9 
+9 9 9 9 9 9 9 9 9 9 9 9 9 9 9 9 9 9 9 9 9 9 9 9 9 9 9 9 9 9 9 9 9 9 9 9 9 9 9 9 9 9 9 9 9 9 9 9 9 9 9 9 9 9 9 f 1 1 1 1 1 1 1 1 1 1 1 f 1 1 1 1 1 f 1 1 1 1 1 1 1 1 1 1 f f 9 9 9 9 9 9 9 9 9 9 9 9 9 9 9 9 9 9 9 9 9 9 9 9 9 9 9 9 9 9 9 9 9 9 9 9 9 9 9 9 9 9 9 9 9 9 9 9 9 9 9 9 9 9 9 9 9 9 9 9 9 9 9 9 9 9 9 9 9 9 9 9 9 9 
+9 9 9 9 9 9 9 9 9 9 9 9 9 9 9 9 9 9 9 9 9 9 9 9 9 9 9 9 9 9 9 9 9 9 9 9 9 9 9 9 9 9 9 9 9 9 9 9 9 9 9 9 9 9 f 1 1 1 1 1 1 1 1 1 1 1 1 f 1 1 1 1 1 f 1 1 1 1 1 1 1 1 1 1 1 1 f 9 9 9 9 9 9 9 9 9 9 9 9 9 9 9 9 9 9 9 9 9 9 9 9 9 9 9 9 9 9 9 9 9 9 9 9 9 9 9 9 9 9 9 9 9 9 9 9 9 9 9 9 9 9 9 9 9 9 9 9 9 9 9 9 9 9 9 9 9 9 9 9 9 
+9 9 9 9 9 9 9 9 9 9 9 9 9 9 9 9 9 9 9 9 9 9 9 9 9 9 9 9 9 9 9 9 9 9 9 9 9 9 9 9 9 9 9 9 9 9 9 9 9 9 9 9 9 9 f 1 1 1 1 1 1 1 1 1 1 1 1 f 1 1 1 1 1 f 1 1 1 1 1 1 1 1 1 1 1 1 1 f f 9 9 9 9 9 9 9 9 9 9 9 9 9 9 9 9 9 9 9 9 9 9 9 9 9 9 9 9 9 9 9 9 9 9 9 9 9 9 9 9 9 9 9 9 9 9 9 9 9 9 9 9 9 9 9 9 9 9 9 9 9 9 9 9 9 9 9 9 9 9 9 
+9 9 9 9 9 9 9 9 9 9 9 9 9 9 9 9 9 9 9 9 9 9 9 9 9 9 9 9 9 9 9 9 9 9 9 9 9 9 9 9 9 9 9 9 9 9 9 9 9 9 9 9 9 9 f 1 1 1 1 1 1 1 1 1 1 1 1 f 1 1 1 1 1 f 1 1 1 1 1 1 1 1 1 1 1 1 1 1 1 f f f 9 9 9 9 9 9 9 9 9 9 9 9 9 9 9 9 9 9 9 9 9 9 9 9 9 9 9 9 9 9 9 9 9 9 9 9 9 9 9 9 9 9 9 9 9 9 9 9 9 9 9 9 9 9 9 9 9 9 9 9 9 9 9 9 9 9 9 9 
+9 9 9 9 9 9 9 9 9 9 9 9 9 9 9 9 9 9 9 9 9 9 9 9 9 9 9 9 9 9 9 9 9 9 9 9 9 9 9 9 9 9 9 9 9 9 9 9 9 9 9 9 9 9 f 1 1 1 1 1 1 1 1 1 1 1 1 f 1 1 1 1 1 f 1 1 1 1 1 1 1 1 1 1 1 1 1 1 1 1 1 f f 9 9 9 9 9 9 9 9 9 9 9 9 9 9 9 9 9 9 9 9 9 9 9 9 9 9 9 9 9 9 9 9 9 9 9 9 9 9 9 9 9 9 9 9 9 9 9 9 9 9 9 9 9 9 9 9 9 9 9 9 9 9 9 9 9 9 9 
+9 9 9 9 9 9 9 9 9 9 9 9 9 9 9 9 9 9 9 9 9 9 9 9 9 9 9 9 9 9 9 9 9 9 9 9 9 9 9 9 9 9 9 9 9 9 9 9 9 9 9 9 9 9 f 1 1 1 1 1 1 1 1 1 1 1 1 f 1 1 1 1 1 1 1 1 1 1 1 1 1 1 1 1 1 1 1 1 1 1 1 1 1 f f f 9 9 9 9 9 9 9 9 9 9 9 9 9 9 9 9 9 9 9 9 9 9 9 9 9 9 9 9 9 9 9 9 9 9 9 9 9 9 9 9 9 9 9 9 9 9 9 9 9 9 9 9 9 9 9 9 9 9 9 9 9 9 9 9 
+9 9 9 9 9 9 9 9 9 9 9 9 9 9 9 9 9 9 9 9 9 9 9 9 9 9 9 9 9 9 9 9 9 9 9 9 9 9 9 9 9 9 9 9 9 9 9 9 9 9 9 9 9 9 f 1 1 1 1 1 1 1 1 1 1 1 1 f 1 1 1 1 1 1 1 1 1 1 1 1 1 1 1 1 1 1 1 1 1 1 1 f f f f 9 9 9 9 9 9 9 9 9 9 9 9 9 9 9 9 9 9 9 9 9 9 9 9 9 9 9 9 9 9 9 9 9 9 9 9 9 9 9 9 9 9 9 9 9 9 9 9 9 9 9 9 9 9 9 9 9 9 9 9 9 9 9 9 9 
+9 9 9 9 9 9 9 9 9 9 9 9 9 9 9 9 9 9 9 9 9 9 9 9 9 9 9 9 9 9 9 9 9 9 9 9 9 9 9 9 9 9 9 9 9 9 9 9 9 9 9 9 9 9 f 1 1 1 1 1 1 1 1 1 1 1 1 f f 1 1 1 1 1 1 1 1 1 1 1 1 1 1 1 1 1 1 1 f f f 9 9 9 9 9 9 9 9 9 9 9 9 9 9 9 9 9 9 9 9 9 9 9 9 9 9 9 9 9 9 9 9 9 9 9 9 9 9 9 9 9 9 9 9 9 9 9 9 9 9 9 9 9 9 9 9 9 9 9 9 9 9 9 9 9 9 9 9 9 
+9 9 9 9 9 9 9 9 9 9 9 9 9 9 9 9 9 9 9 9 9 9 9 9 9 9 9 9 9 9 9 9 9 9 9 9 9 9 9 9 9 9 9 9 9 9 9 9 9 9 9 9 9 9 f 1 1 1 1 1 1 1 1 1 1 1 1 1 f f 1 1 1 1 1 1 1 1 1 1 1 1 1 1 1 1 f f f 9 9 9 9 9 9 9 9 9 9 9 9 9 9 9 9 9 9 9 9 9 9 9 9 9 9 9 9 9 9 9 9 9 9 9 9 9 9 9 9 9 9 9 9 9 9 9 9 9 9 9 9 9 9 9 9 9 9 9 9 9 9 9 9 9 9 9 9 9 9 9 
+9 9 9 9 9 9 9 9 9 9 9 9 9 9 9 9 9 9 9 9 9 9 9 9 9 9 9 9 9 9 9 9 9 9 9 9 9 9 9 9 9 9 9 9 9 9 9 9 9 9 9 9 9 9 f f 1 1 1 1 1 1 1 1 1 1 1 1 1 f f f 1 1 1 1 1 1 1 1 1 1 f f f f 9 9 9 9 9 9 9 9 9 9 9 9 9 9 9 9 9 9 9 9 9 9 9 9 9 9 9 9 9 9 9 9 9 9 9 9 9 9 9 9 9 9 9 9 9 9 9 9 9 9 9 9 9 9 9 9 9 9 9 9 9 9 9 9 9 9 9 9 9 9 9 9 9 9 
+9 9 9 9 9 9 9 9 9 9 9 9 9 9 9 9 9 9 9 9 9 9 9 9 9 9 9 9 9 9 9 9 9 9 9 9 9 9 9 9 9 9 9 9 9 9 9 9 9 9 9 9 9 9 9 f f f f 1 1 1 1 1 1 1 1 1 1 1 1 f f f f f 1 1 f f f f f 9 9 9 9 9 9 9 9 9 9 9 9 9 9 9 9 9 9 9 9 9 9 9 9 9 9 9 9 9 9 9 9 9 9 9 9 9 9 9 9 9 9 9 9 9 9 9 9 9 9 9 9 9 9 9 9 9 9 9 9 9 9 9 9 9 9 9 9 9 9 9 9 9 9 9 9 9 
+9 9 9 9 9 9 9 9 9 9 9 9 9 9 9 9 9 9 9 9 9 9 9 9 9 9 9 9 9 9 9 9 9 9 9 9 9 9 9 9 9 9 9 9 9 9 9 9 9 9 9 9 9 9 9 9 9 9 f f f f f f f f f f f f f f f f f f f f f 9 9 9 9 9 9 9 9 9 9 9 9 9 9 9 9 9 9 9 9 9 9 9 9 9 9 9 9 9 9 9 9 9 9 9 9 9 9 9 9 9 9 9 9 9 9 9 9 9 9 9 9 9 9 9 9 9 9 9 9 9 9 9 9 9 9 9 9 9 9 9 9 9 9 9 9 9 9 9 9 9 
+9 9 9 9 9 9 9 9 9 9 9 9 9 9 9 9 9 9 9 9 9 9 9 9 9 9 9 9 9 9 9 9 9 9 9 9 9 9 9 9 9 9 9 9 9 9 9 9 9 9 9 9 9 9 9 9 9 9 9 9 9 9 9 9 9 9 9 9 9 9 9 9 9 9 9 9 9 9 9 9 9 9 9 9 9 9 9 9 9 9 9 9 9 9 9 9 9 9 9 9 9 9 9 9 9 9 9 9 9 9 9 9 9 9 9 9 9 9 9 9 9 9 9 9 9 9 9 9 9 9 9 9 9 9 9 9 9 9 9 9 9 9 9 9 9 9 9 9 9 9 9 9 9 9 9 9 9 9 9 9 
+9 9 9 9 9 9 9 9 9 9 9 9 9 9 9 9 9 9 9 9 9 9 9 9 9 9 9 9 9 9 9 9 9 9 9 9 9 9 9 9 9 9 9 9 9 9 9 9 9 9 9 9 9 9 9 9 9 9 9 9 9 9 9 9 9 9 9 9 9 9 9 9 9 9 9 9 9 9 9 9 9 9 9 9 9 9 9 9 9 9 9 9 9 9 9 9 9 9 9 9 9 9 9 9 9 9 9 9 9 9 9 9 9 9 9 9 9 9 9 9 9 9 9 9 9 9 9 9 9 9 9 9 9 9 9 9 9 9 9 9 9 9 9 9 9 9 9 9 9 9 9 9 9 9 9 9 9 9 9 9 
+9 9 9 9 9 9 9 9 9 9 9 9 9 9 9 9 9 9 9 9 9 9 9 9 9 9 9 9 9 9 9 9 9 9 9 9 9 9 9 9 9 9 9 9 9 9 9 9 9 9 9 9 9 9 9 9 9 9 9 9 9 9 9 9 9 9 9 9 9 9 9 9 9 9 9 9 9 9 9 9 9 9 9 9 9 9 9 9 9 9 9 9 9 9 9 9 9 9 9 9 9 9 9 9 9 9 9 9 9 9 9 9 9 9 9 9 9 9 9 9 9 9 9 9 9 9 9 9 9 9 9 9 9 9 9 9 9 9 9 9 9 9 9 9 9 9 9 9 9 9 9 9 9 9 9 9 9 9 9 9 
+9 9 9 9 9 9 9 9 9 9 9 9 9 9 9 9 9 9 9 9 9 9 9 9 9 9 9 9 9 9 9 9 9 9 9 9 9 9 9 9 9 9 9 9 9 9 9 9 9 9 9 9 9 9 9 9 9 9 9 9 9 9 9 9 9 9 9 9 9 9 9 9 9 9 9 9 9 9 9 9 9 9 9 9 9 9 9 9 9 9 9 9 9 9 9 9 9 9 9 9 9 9 9 9 9 9 9 9 9 9 9 9 9 9 9 9 9 9 9 9 9 9 9 9 9 9 9 9 9 9 9 9 9 9 9 9 9 9 9 9 9 9 9 9 9 9 9 9 9 9 9 9 9 9 9 9 9 9 9 9 
+9 9 9 9 9 9 9 9 9 9 9 9 9 9 9 9 9 9 9 9 9 9 9 9 9 9 9 9 9 9 9 9 9 9 9 9 9 9 9 9 9 9 9 9 9 9 9 9 9 9 9 9 9 9 9 9 9 9 9 9 9 9 9 9 9 9 9 9 9 9 9 9 9 9 9 9 9 9 9 9 9 9 9 9 9 9 9 9 9 9 9 9 9 9 9 9 9 9 9 9 9 9 9 9 9 9 9 9 9 9 9 9 9 9 9 9 9 9 9 9 9 9 9 9 9 9 9 9 9 9 9 9 9 9 9 9 9 9 9 9 9 9 9 9 9 9 9 9 9 9 9 9 9 9 9 9 9 9 9 9 
+9 9 9 9 9 9 9 9 9 9 9 9 9 9 9 9 9 9 9 9 9 9 9 9 9 9 9 9 9 9 9 9 9 9 9 9 9 9 9 9 9 9 9 9 9 9 9 9 9 9 9 9 9 9 9 9 9 9 9 9 9 9 9 9 9 9 9 9 9 9 9 9 9 9 9 9 9 9 9 9 9 9 9 9 9 9 9 9 9 9 9 9 9 9 9 9 9 9 9 9 9 9 9 9 9 9 9 9 9 9 9 9 9 9 9 9 9 9 9 9 9 9 9 9 9 9 9 9 9 9 9 9 9 9 9 9 9 9 9 9 9 9 9 9 9 9 9 9 9 9 9 9 9 9 9 9 9 9 9 9 
+9 9 9 9 9 9 9 9 9 9 9 9 9 9 9 9 9 9 9 9 9 9 9 9 9 9 9 9 9 9 9 9 9 9 9 9 9 9 9 9 9 9 9 9 9 9 9 9 9 9 9 9 9 9 9 9 9 9 9 9 9 9 9 9 9 9 9 9 9 9 9 9 9 9 9 9 9 9 9 9 9 9 9 9 9 9 9 9 9 9 9 9 9 9 9 9 9 9 9 9 9 9 9 9 9 9 9 9 9 9 9 9 9 9 9 9 9 9 9 9 9 9 9 9 9 9 9 9 9 9 9 9 9 9 9 9 9 9 9 9 9 9 9 9 9 9 9 9 9 9 9 9 9 9 9 9 9 9 9 9 
+9 9 9 9 9 9 9 9 9 9 9 9 9 9 9 9 9 9 9 9 9 9 9 9 9 9 9 9 9 9 9 9 9 9 9 9 9 9 9 9 9 9 9 9 9 9 9 9 9 9 9 9 9 9 9 9 9 9 9 9 9 9 9 9 9 9 9 9 9 9 9 9 9 9 9 9 9 9 9 9 9 9 9 9 9 9 9 9 9 9 9 9 9 9 9 9 9 9 9 9 9 9 9 9 9 9 9 9 9 9 9 9 9 9 9 9 9 9 9 9 9 9 9 9 9 9 9 9 9 9 9 9 9 9 9 9 9 9 9 9 9 9 9 9 9 9 9 9 9 9 9 9 9 9 9 9 9 9 9 9 
+9 9 9 9 9 9 9 9 9 9 9 9 9 9 9 9 9 9 9 9 9 9 9 9 9 9 9 9 9 9 9 9 9 9 9 9 9 9 9 9 9 9 9 9 9 9 9 9 9 9 9 9 9 9 9 9 9 9 9 9 9 9 9 9 9 9 9 9 9 9 9 9 9 9 9 9 9 9 9 9 9 9 9 9 9 9 9 9 9 9 9 9 9 9 9 9 9 9 9 9 9 9 9 9 9 9 9 9 9 9 9 9 9 9 9 9 9 9 9 9 9 9 9 9 9 9 9 9 9 9 9 9 9 9 9 9 9 9 9 9 9 9 9 9 9 9 9 9 9 9 9 9 9 9 9 9 9 9 9 9 
+9 9 9 9 9 9 9 9 9 9 9 9 9 9 9 9 9 9 9 9 9 9 9 9 9 9 9 9 9 9 9 9 9 9 9 9 9 9 9 9 9 9 9 9 9 9 9 9 9 9 9 9 9 9 9 9 9 9 9 9 9 9 9 9 9 9 9 9 9 9 9 9 9 9 9 9 9 9 9 9 9 9 9 9 9 9 9 9 9 9 9 9 9 9 9 9 9 9 9 9 9 9 9 9 9 9 9 9 9 9 9 9 9 9 9 9 9 9 9 9 9 9 9 9 9 9 9 9 9 9 9 9 9 9 9 9 9 9 9 9 9 9 9 9 9 9 9 9 9 9 9 9 9 9 9 9 9 9 9 9 
+9 9 9 9 9 9 9 9 9 9 9 9 9 9 9 9 9 9 9 9 9 9 9 9 9 9 9 9 9 9 9 9 9 9 9 9 9 9 9 9 9 9 9 9 9 9 9 9 9 9 9 9 9 9 9 9 9 9 9 9 9 9 9 9 9 9 9 9 9 9 9 9 9 9 9 9 9 9 9 9 9 9 9 9 9 9 9 9 9 9 9 9 9 9 9 9 9 9 9 9 9 9 9 9 9 9 9 9 9 9 9 9 9 9 9 9 9 9 9 9 9 9 9 9 9 9 9 9 9 9 9 9 9 9 9 9 9 9 9 9 9 9 9 9 9 9 9 9 9 9 9 9 9 9 9 9 9 9 9 9 
+9 9 9 9 9 9 9 9 9 9 9 9 9 9 9 9 9 9 9 9 9 9 9 9 9 9 9 9 9 9 9 9 9 9 9 9 9 9 9 9 9 9 9 9 9 9 9 9 9 9 9 9 9 9 9 9 9 9 9 9 9 9 9 9 9 9 9 9 9 9 9 9 9 9 9 9 9 9 9 9 9 9 9 9 9 9 9 9 9 9 9 9 9 9 9 9 9 9 9 9 9 9 9 9 9 9 9 9 9 9 9 9 9 9 9 9 9 9 9 9 9 9 9 9 9 9 9 9 9 9 9 9 9 9 9 9 9 9 9 9 9 9 9 9 9 9 9 9 9 9 9 9 9 9 9 9 9 9 9 9 
+9 9 9 9 9 9 9 9 9 9 9 9 9 9 9 9 9 9 9 9 9 9 9 9 9 9 9 9 9 9 9 9 9 9 9 9 9 9 9 9 9 9 9 9 9 9 9 9 9 9 9 9 9 9 9 9 9 9 9 9 9 9 9 9 9 9 9 9 9 9 9 9 9 9 9 9 9 9 9 9 9 9 9 9 9 9 9 9 9 9 9 9 9 9 9 9 9 9 9 9 9 9 9 9 9 9 9 9 9 9 9 9 9 9 9 9 9 9 9 9 9 9 9 9 9 9 9 9 9 9 9 9 9 9 9 9 9 9 9 9 9 9 9 9 9 9 9 9 9 9 9 9 9 9 9 9 9 9 9 9 
+9 9 9 9 9 9 9 9 9 9 9 9 9 9 9 9 9 9 9 9 9 9 9 9 9 9 9 9 9 9 9 9 9 9 9 9 9 9 9 9 9 9 9 9 9 9 9 9 9 9 9 9 9 9 9 9 9 9 9 9 9 9 9 9 9 9 9 9 9 9 9 9 9 9 9 9 9 9 9 9 9 9 9 9 9 9 9 9 9 9 9 9 9 9 9 9 9 9 9 9 9 9 9 9 9 9 9 9 9 9 9 9 9 9 9 9 9 9 9 9 9 9 9 9 9 9 9 9 9 9 9 9 9 9 9 9 9 9 9 9 9 9 9 9 9 9 9 9 9 9 9 9 9 9 9 9 9 9 9 9 
+9 9 9 9 9 9 9 9 9 9 9 9 9 9 9 9 9 9 9 9 9 9 9 9 9 9 9 9 9 9 9 9 9 9 9 9 9 9 9 9 9 9 9 9 9 9 9 9 9 9 9 9 9 9 9 9 9 9 9 9 9 9 9 9 9 9 9 9 9 9 9 9 9 9 9 9 9 9 9 9 9 9 9 9 9 9 9 9 9 9 9 9 9 9 9 9 9 9 9 9 9 9 9 9 9 9 9 9 9 9 9 9 9 9 9 9 9 9 9 9 9 9 9 9 9 9 9 9 9 9 9 9 9 9 9 9 9 9 9 9 9 9 9 9 9 9 9 9 9 9 9 9 9 9 9 9 9 9 9 9 
+9 9 9 9 9 9 9 9 9 9 9 9 9 9 9 9 9 9 9 9 9 9 9 9 9 9 9 9 9 9 9 9 9 9 9 9 9 9 9 9 9 9 9 9 9 9 9 9 9 9 9 9 9 9 9 9 9 9 9 9 9 9 9 9 9 9 9 9 9 9 9 9 9 9 9 9 9 9 9 9 9 9 9 9 9 9 9 9 9 9 9 9 9 9 9 9 9 9 9 9 9 9 9 9 9 9 9 9 9 9 9 9 9 9 9 9 9 9 9 9 9 9 9 9 9 9 9 9 9 9 9 9 9 9 9 9 9 9 9 9 9 9 9 9 9 9 9 9 9 9 9 9 9 9 9 9 9 9 9 9 
+9 9 9 9 9 9 9 9 9 9 9 9 9 9 9 9 9 9 9 9 9 9 9 9 9 9 9 9 9 9 9 9 9 9 9 9 9 9 9 9 9 9 9 9 9 9 9 9 9 9 9 9 9 9 9 9 9 9 9 9 9 9 9 9 9 9 9 9 9 9 9 9 9 9 9 9 9 9 9 9 9 9 9 9 9 9 9 9 9 9 9 9 9 9 9 9 9 9 9 9 9 9 9 9 9 9 9 9 9 9 9 9 9 9 9 9 9 9 9 9 9 9 9 9 9 9 9 9 9 9 9 9 9 9 9 9 9 9 9 9 9 9 9 9 9 9 9 9 9 9 9 9 9 9 9 9 9 9 9 9 
+9 9 9 9 9 9 9 9 9 9 9 9 9 9 9 9 9 9 9 9 9 9 9 9 9 9 9 9 9 9 9 9 9 9 9 9 9 9 9 9 9 9 9 9 9 9 9 9 9 9 9 9 9 9 9 9 9 9 9 9 9 9 9 9 9 9 9 9 9 9 9 9 9 9 9 9 9 9 9 9 9 9 9 9 9 9 9 9 9 9 9 9 9 9 9 9 9 9 9 9 9 9 9 9 9 9 9 9 9 9 9 9 9 9 9 9 9 9 9 9 9 9 9 9 9 9 9 9 9 9 9 9 9 9 9 9 9 9 9 9 9 9 9 9 9 9 9 9 9 9 9 9 9 9 9 9 9 9 9 9 
+9 9 9 9 9 9 9 9 9 9 9 9 9 9 9 9 9 9 9 9 9 9 9 9 9 9 9 9 9 9 9 9 9 9 9 9 9 9 9 9 9 9 9 9 9 9 9 9 9 9 9 9 9 9 9 9 9 9 9 9 9 9 9 9 9 9 9 9 9 9 9 9 9 9 9 9 9 9 9 9 9 9 9 9 9 9 9 9 9 9 9 9 9 9 9 9 9 9 9 9 9 9 9 9 9 9 9 9 9 9 9 9 9 9 9 9 9 9 9 9 9 9 9 9 9 9 9 9 9 9 9 9 9 9 9 9 9 9 9 9 9 9 9 9 9 9 9 9 9 9 9 9 9 9 9 9 9 9 9 9 
+9 9 9 9 9 9 9 9 9 9 9 9 9 9 9 9 9 9 9 9 9 9 9 9 9 9 9 9 9 9 9 9 9 9 9 9 9 9 9 9 9 9 9 9 9 9 9 9 9 9 9 9 9 9 9 9 9 9 9 9 9 9 9 9 9 9 9 9 9 9 9 9 9 9 9 9 9 9 9 9 9 9 9 9 9 9 9 9 9 9 9 9 9 9 9 9 9 9 9 9 9 9 9 9 9 9 9 9 9 9 9 9 9 9 9 9 9 9 9 9 9 9 9 9 9 9 9 9 9 9 9 9 9 9 9 9 9 9 9 9 9 9 9 9 9 9 9 9 9 9 9 9 9 9 9 9 9 9 9 9 
+9 9 9 9 9 9 9 9 9 9 9 9 9 9 9 9 9 9 9 9 9 9 9 9 9 9 9 9 9 9 9 9 9 9 9 9 9 9 9 9 9 9 9 9 9 9 9 9 9 9 9 9 9 9 9 9 9 9 9 9 9 9 9 9 9 9 9 9 9 9 9 9 9 9 9 9 9 9 9 9 9 9 9 9 9 9 9 9 9 9 9 9 9 9 9 9 9 9 9 9 9 9 9 9 9 9 9 9 9 9 9 9 9 9 9 9 9 9 9 9 9 9 9 9 9 9 9 9 9 9 9 9 9 9 9 9 9 9 9 9 9 9 9 9 9 9 9 9 9 9 9 9 9 9 9 9 9 9 9 9 
+9 9 9 9 9 9 9 9 9 9 9 9 9 9 9 9 9 9 9 9 9 9 9 9 9 9 9 9 9 9 9 9 9 9 9 9 9 9 9 9 9 9 9 9 9 9 9 9 9 9 9 9 9 9 9 9 9 9 9 9 9 9 9 9 9 9 9 9 9 9 9 9 9 9 9 9 9 9 9 9 9 9 9 9 9 9 9 9 9 9 9 9 9 9 9 9 9 9 9 9 9 9 9 9 9 9 9 9 9 9 9 9 9 9 9 9 9 9 9 9 9 9 9 9 9 9 9 9 9 9 9 9 9 9 9 9 9 9 9 9 9 9 9 9 9 9 9 9 9 9 9 9 9 9 9 9 9 9 9 9 
+9 9 9 9 9 9 9 9 9 9 9 9 9 9 9 9 9 9 9 9 9 9 9 9 9 9 9 9 9 9 9 9 9 9 9 9 9 9 9 9 9 9 9 9 9 9 9 9 9 9 9 9 9 9 9 9 9 9 9 9 9 9 9 9 9 9 9 9 9 9 9 9 9 9 9 9 9 9 9 9 9 9 9 9 9 9 9 9 9 9 9 9 9 9 9 9 9 9 9 9 9 9 9 9 9 9 9 9 9 9 9 9 9 9 9 9 9 9 9 9 9 9 9 9 9 9 9 9 9 9 9 9 9 9 9 9 9 9 9 9 9 9 9 9 9 9 9 9 9 9 9 9 9 9 9 9 9 9 9 9 
+9 9 9 9 9 9 9 9 9 9 9 9 9 9 9 9 9 9 9 9 9 9 9 9 9 9 9 9 9 9 9 9 9 9 9 9 9 9 9 9 9 9 9 9 9 9 9 9 9 9 9 9 9 9 9 9 9 9 9 9 9 9 9 9 9 9 9 9 9 9 9 9 9 9 9 9 9 9 9 9 9 9 9 9 9 9 9 9 9 9 9 9 9 9 9 9 9 9 9 9 9 9 9 9 9 9 9 9 9 9 9 9 9 9 9 9 9 9 9 9 9 9 9 9 9 9 9 9 9 9 9 9 9 9 9 9 9 9 9 9 9 9 9 9 9 9 9 9 9 9 9 9 9 9 9 9 9 9 9 9 
+9 9 9 9 9 9 9 9 9 9 9 9 9 9 9 9 9 9 9 9 9 9 9 9 9 9 9 9 9 9 9 9 9 9 9 9 9 9 9 9 9 9 9 9 9 9 9 9 9 9 9 9 9 9 9 9 9 9 9 9 9 9 9 9 9 9 9 9 9 9 9 9 9 9 9 9 9 9 9 9 9 9 9 9 9 9 9 9 9 9 9 9 9 9 9 9 9 9 9 9 9 9 9 9 9 9 9 9 9 9 9 9 9 9 9 9 9 9 9 9 9 9 9 9 9 9 9 9 9 9 9 9 9 9 9 9 9 9 9 9 9 9 9 9 9 9 9 9 9 9 9 9 9 9 9 9 9 9 9 9 
+9 9 9 9 9 9 9 9 9 9 9 9 9 9 9 9 9 9 9 9 9 9 9 9 9 9 9 9 9 9 9 9 9 9 9 9 9 9 9 9 9 9 9 9 9 9 9 9 9 9 9 9 9 9 9 9 9 9 9 9 9 9 9 9 9 9 9 9 9 9 9 9 9 9 9 9 9 9 9 9 9 9 9 9 9 9 9 9 9 9 9 9 9 9 9 9 9 9 9 9 9 9 9 9 9 9 9 9 9 9 9 9 9 9 9 9 9 9 9 9 9 9 9 9 9 9 9 9 9 9 9 9 9 9 9 9 9 9 9 9 9 9 9 9 9 9 9 9 9 9 9 9 9 9 9 9 9 9 9 9 
+9 9 9 9 9 9 9 9 9 9 9 9 9 9 9 9 9 9 9 9 9 9 9 9 9 9 9 9 9 9 9 9 9 9 9 9 9 9 9 9 9 9 9 9 9 9 9 9 9 9 9 9 9 9 9 9 9 9 9 9 9 9 9 9 9 9 9 9 9 9 9 9 9 9 9 9 9 9 9 9 9 9 9 9 9 9 9 9 9 9 9 9 9 9 9 9 9 9 9 9 9 9 9 9 9 9 9 9 9 9 9 9 9 9 9 9 9 9 9 9 9 9 9 9 9 9 9 9 9 9 9 9 9 9 9 9 9 9 9 9 9 9 9 9 9 9 9 9 9 9 9 9 9 9 9 9 9 9 9 9 
+9 9 9 9 9 9 9 9 9 9 9 9 9 9 9 9 9 9 9 9 9 9 9 9 9 9 9 9 9 9 9 9 9 9 9 9 9 9 9 9 9 9 9 9 9 9 9 9 9 9 9 9 9 9 9 9 9 9 9 9 9 9 9 9 9 9 9 9 9 9 9 9 9 9 9 9 9 9 9 9 9 9 9 9 9 9 9 9 9 9 9 9 9 9 9 9 9 9 9 9 9 9 9 9 9 9 9 9 9 9 9 9 9 9 9 9 9 9 9 9 9 9 9 9 9 9 9 9 9 9 9 9 9 9 9 9 9 9 9 9 9 9 9 9 9 9 9 9 9 9 9 9 9 9 9 9 9 9 9 9 
+9 9 9 9 9 9 9 9 9 9 9 9 9 9 9 9 9 9 9 9 9 9 9 9 9 9 9 9 9 9 9 9 9 9 9 9 9 9 9 9 9 9 9 9 9 9 9 9 9 9 9 9 9 9 9 9 9 9 9 9 9 9 9 9 9 9 9 9 9 9 9 9 9 9 9 9 9 9 9 9 9 9 9 9 9 9 9 9 9 9 9 9 9 9 9 9 9 9 9 9 9 9 9 9 9 9 9 9 9 9 9 9 9 9 9 9 9 9 9 9 9 9 9 9 9 9 9 9 9 9 9 9 9 9 9 9 9 9 9 9 9 9 9 9 9 9 9 9 9 9 9 9 9 9 9 9 9 9 9 9 
+9 9 9 9 9 9 9 9 9 9 9 9 9 9 9 9 9 9 9 9 9 9 9 9 9 9 9 9 9 9 9 9 9 9 9 9 9 9 9 9 9 9 9 9 9 9 9 9 9 9 9 9 9 9 9 9 9 9 9 9 9 9 9 9 9 9 9 9 9 9 9 9 9 9 9 9 9 9 9 9 9 9 9 9 9 9 9 9 9 9 9 9 9 9 9 9 9 9 9 9 9 9 9 9 9 9 9 9 9 9 9 9 9 9 9 9 9 9 9 9 9 9 9 9 9 9 9 9 9 9 9 9 9 9 9 9 9 9 9 9 9 9 9 9 9 9 9 9 9 9 9 9 9 9 9 9 9 9 9 9 
+9 9 9 9 9 9 9 9 9 9 9 9 9 9 9 9 9 9 9 9 9 9 9 9 9 9 9 9 9 9 9 9 9 9 9 9 9 9 9 9 9 9 9 9 9 9 9 9 9 9 9 9 9 9 9 9 9 9 9 9 9 9 9 9 9 9 9 9 9 9 9 9 9 9 9 9 9 9 9 9 9 9 9 9 9 9 9 9 9 9 9 9 9 9 9 9 9 9 9 9 9 9 9 9 9 9 9 9 9 9 9 9 9 9 9 9 9 9 9 9 9 9 9 9 9 9 9 9 9 9 9 9 9 9 9 9 9 9 9 9 9 9 9 9 9 9 9 9 9 9 9 9 9 9 9 9 9 9 9 9 
+9 9 9 9 9 9 9 9 9 9 9 9 9 9 9 9 9 9 9 9 9 9 9 9 9 9 9 9 9 9 9 9 9 9 9 9 9 9 9 9 9 9 9 9 9 9 9 9 9 9 9 9 9 9 9 9 9 9 9 9 9 9 9 9 9 9 9 9 9 9 9 9 9 9 9 9 9 9 9 9 9 9 9 9 9 9 9 9 9 9 9 9 9 9 9 9 9 9 9 9 9 9 9 9 9 9 9 9 9 9 9 9 9 9 9 9 9 9 9 9 9 9 9 9 9 9 9 9 9 9 9 9 9 9 f f f f f f f f f 9 9 9 9 9 9 9 9 9 9 9 9 9 9 9 9 9 
+9 9 9 9 9 9 9 9 9 9 9 9 9 9 9 9 9 9 9 9 9 9 9 9 9 9 9 9 9 9 9 9 9 9 9 9 9 9 9 9 9 9 9 9 9 9 9 9 9 9 9 9 9 9 9 9 9 9 9 9 9 9 9 9 9 9 9 9 9 9 9 9 9 9 9 9 9 9 9 9 9 9 9 9 9 9 9 9 9 9 9 9 9 9 9 9 9 9 9 9 9 9 9 9 9 9 9 9 9 9 9 9 9 9 9 9 9 9 9 9 9 9 9 9 9 9 9 9 9 9 9 9 f f f 7 7 7 7 7 7 7 f f 9 9 9 9 9 9 9 9 9 9 9 9 9 9 9 9 
+9 9 9 9 9 9 9 9 9 9 9 9 9 9 9 9 9 9 9 9 9 9 9 9 9 9 9 9 f f f f f f 9 9 9 9 9 9 9 9 9 9 9 9 9 9 9 9 9 9 9 9 9 9 9 9 9 9 9 9 9 9 9 9 9 9 9 9 9 9 9 9 9 9 9 9 9 9 9 9 9 9 9 9 9 9 9 9 9 9 9 9 9 9 9 9 9 9 9 9 9 9 9 9 9 9 9 9 9 9 9 9 9 9 9 9 9 9 9 9 9 9 9 9 9 9 9 9 9 f f 7 7 7 7 7 7 7 7 7 7 f f f 9 9 9 9 9 9 9 9 9 9 9 9 9 9 
+9 9 9 9 9 9 9 9 9 9 9 9 9 9 9 9 9 9 9 9 9 9 9 9 f f f f 7 7 7 7 7 f f f 9 9 9 9 9 9 9 9 9 9 9 9 9 9 9 9 9 9 9 9 9 9 9 9 9 9 9 9 9 9 9 9 9 9 9 9 9 9 9 9 9 9 9 9 9 9 9 9 9 9 9 9 9 9 9 9 9 9 9 9 9 9 9 9 9 9 9 9 9 9 9 9 9 9 9 9 9 9 9 9 9 9 9 9 9 9 9 9 9 9 9 9 9 f f f 7 7 7 7 7 7 7 7 7 7 7 7 7 f f 9 9 9 9 9 9 9 9 9 9 9 9 9 
+9 9 9 9 9 9 9 9 9 9 9 9 9 9 9 9 9 9 9 9 9 f f f 7 7 7 7 7 7 7 7 7 7 7 f f 9 9 9 9 9 9 9 9 9 9 9 9 9 9 9 9 9 9 9 9 9 9 9 9 9 9 9 9 9 9 9 9 9 9 9 9 9 9 9 9 9 9 9 9 9 9 9 9 9 9 9 9 9 9 9 9 9 9 9 9 9 9 9 9 9 9 9 9 9 9 9 9 9 9 9 9 9 9 9 9 9 9 9 9 9 9 9 9 9 9 9 f f 7 7 7 7 7 7 7 7 7 7 7 7 7 7 7 7 7 f f 9 9 9 9 9 9 9 9 9 9 9 
+9 9 9 9 9 9 9 9 9 9 9 9 9 9 9 9 9 9 9 9 f f 7 7 7 7 7 7 7 7 7 7 7 7 7 7 f f 9 9 9 9 9 9 9 9 9 9 9 9 9 9 9 9 9 9 9 9 9 9 9 9 9 9 9 9 9 9 9 9 9 9 9 9 9 f f f f f f f 9 9 9 9 9 9 9 9 9 9 9 9 9 9 9 9 9 9 9 9 9 9 9 9 9 9 9 9 9 9 9 9 9 9 9 9 9 9 9 9 9 9 9 9 9 f f 7 7 7 7 7 7 7 7 7 7 7 7 7 7 7 7 7 7 7 f f 9 9 9 9 9 9 9 9 9 9 
+9 9 9 9 9 9 9 9 9 9 9 9 9 9 9 9 9 9 f f 7 7 7 7 7 7 7 7 7 7 7 7 7 7 7 7 7 f f 9 9 9 9 9 9 9 9 9 9 9 9 9 9 9 9 9 9 9 9 9 9 9 9 9 9 9 9 9 9 9 9 9 9 9 f f 7 7 7 7 7 f f 9 9 9 9 9 9 9 9 9 9 9 9 9 9 9 9 9 9 9 9 9 9 9 9 9 9 9 9 9 9 9 9 9 9 9 9 9 9 9 9 9 9 f f 7 7 7 7 7 7 7 7 7 7 7 7 7 7 7 7 7 7 7 7 7 7 f f 9 9 9 9 9 9 9 9 9 
+9 9 9 9 9 9 9 9 9 9 9 9 9 9 9 9 f f f 7 7 7 7 7 7 7 7 7 7 7 7 7 7 7 7 7 7 7 7 f 9 9 9 9 9 9 9 9 9 9 9 9 9 9 9 9 9 9 9 9 9 9 9 9 9 9 9 9 9 9 9 9 f f 7 7 7 7 7 7 7 7 f f 9 9 9 9 9 9 9 9 9 9 9 9 9 9 9 9 9 9 9 9 9 9 9 9 9 9 9 9 9 9 9 9 9 9 9 9 9 9 9 9 f f 7 7 7 7 7 7 7 7 7 f 7 7 7 7 7 7 7 7 7 7 7 7 7 7 f f 9 9 9 9 9 9 9 9 
+9 9 9 9 9 9 9 9 9 9 9 9 9 9 9 f f 7 7 7 7 7 7 7 7 7 7 7 7 f f 7 7 7 7 7 7 7 7 f f 9 9 9 9 9 9 9 9 9 9 9 9 9 9 9 9 9 9 9 9 9 9 9 9 9 9 9 9 9 9 f f 7 7 7 7 7 7 7 7 7 7 f f 9 9 9 9 9 9 9 9 9 9 9 9 9 9 9 9 9 9 9 9 9 9 9 9 9 9 9 9 9 9 9 9 9 9 9 9 9 9 f 7 7 7 7 7 7 7 7 7 7 7 f 7 7 7 7 7 7 7 7 7 7 7 7 7 7 7 7 f 9 9 9 9 9 9 9 
+9 9 9 9 9 9 9 9 9 9 9 9 9 9 f f 7 7 7 7 7 7 7 7 7 7 7 7 7 7 f f 7 7 7 7 7 7 7 7 f f 9 9 9 9 9 9 9 9 9 9 9 9 9 9 9 9 9 9 9 9 9 9 9 9 9 9 9 9 f f 7 7 7 7 7 7 7 7 7 7 7 7 f f 9 9 9 9 9 9 9 9 9 9 9 9 9 9 9 9 9 9 9 9 9 9 9 9 9 9 9 9 9 9 9 9 9 9 9 f f 7 7 7 7 7 7 7 7 7 7 7 f 7 7 7 7 7 7 7 7 7 7 7 7 7 7 7 7 7 7 f f 9 9 9 9 9 
+9 9 9 9 9 9 9 9 9 9 9 9 9 f f 7 7 7 7 7 7 7 7 7 7 7 7 7 7 7 7 f 7 7 7 7 7 7 7 7 7 f f 9 9 9 9 9 9 9 9 9 9 9 9 9 9 9 9 9 9 9 9 9 9 9 9 9 9 f f 7 7 7 7 7 7 7 7 f 7 7 7 7 7 f 9 9 9 9 9 9 9 9 9 9 9 9 9 9 9 9 9 9 9 9 9 9 9 9 9 9 9 9 9 9 9 9 9 9 f f 7 7 7 7 7 7 7 7 7 7 7 7 f 7 7 7 7 7 7 7 7 7 7 7 7 7 f 7 7 7 7 7 f 9 9 9 9 9 
+9 9 9 9 9 9 9 9 9 9 9 f f 7 7 7 7 7 7 7 7 7 7 7 7 7 7 7 7 7 7 7 7 7 7 7 7 7 7 7 7 7 f 9 9 9 9 9 9 9 9 9 9 9 9 9 9 9 9 9 9 9 9 9 9 9 9 9 f f 7 7 7 7 7 7 7 7 7 f f 7 7 7 7 f f 9 9 9 9 9 9 9 9 9 9 9 9 9 9 9 9 9 9 9 9 9 9 9 9 9 9 9 9 9 9 9 9 f f 7 7 7 7 7 7 7 7 7 7 7 7 f f 7 7 7 7 7 7 7 7 7 7 7 7 7 f f 7 7 7 7 7 f 9 9 9 9 
+9 9 9 9 9 9 9 9 9 9 f f 7 7 7 7 7 7 7 7 7 7 7 7 7 7 7 7 7 7 7 7 7 7 7 7 7 7 7 7 7 7 7 f 9 9 9 9 9 9 9 9 9 9 9 9 9 9 9 9 9 9 9 9 9 9 9 f f 7 7 7 7 7 7 7 7 7 7 7 7 7 7 7 7 7 f 9 9 9 9 9 9 9 9 9 9 9 9 9 9 9 9 9 9 9 9 9 9 9 9 9 9 9 9 9 9 9 f 7 7 7 7 7 7 7 7 7 7 7 7 7 7 f 7 7 7 7 7 7 7 7 7 7 7 7 7 7 7 f 7 7 7 7 7 f 9 9 9 9 
+9 9 9 9 9 9 9 9 9 f f 7 7 7 7 7 f 7 7 7 7 7 7 7 7 7 7 7 7 7 7 7 7 7 7 7 7 7 7 7 7 7 7 f f 9 9 9 9 9 9 9 9 9 9 9 9 9 9 9 9 9 9 9 9 f f f 7 7 7 7 7 7 7 7 7 7 7 7 7 7 7 7 7 7 7 f 9 9 9 9 9 9 9 9 9 9 9 9 9 9 9 9 9 9 9 9 9 9 9 9 9 9 9 9 9 f 7 7 7 7 7 7 7 7 7 7 7 7 7 7 7 7 7 7 7 7 7 7 7 7 7 7 7 7 7 7 7 f 7 7 7 7 7 f 9 9 9 9 
+9 9 9 9 9 9 9 9 f 7 7 7 7 7 7 7 f f 7 7 7 7 7 7 7 7 7 7 7 7 7 7 7 7 7 7 7 7 7 7 7 7 7 7 f f 9 9 9 9 9 9 9 9 9 9 9 9 9 9 9 9 9 9 9 f 7 7 7 7 7 7 7 7 7 f 7 7 7 7 7 7 7 7 7 7 7 f f 9 9 9 9 9 9 9 9 9 9 9 9 9 9 9 9 9 9 9 9 9 9 9 9 9 9 9 f f 7 7 7 7 7 7 7 7 7 7 7 7 7 7 7 7 7 7 7 7 7 7 7 7 7 7 7 7 7 7 7 7 7 7 7 7 7 f f 9 9 9 
+9 9 9 9 9 9 f f 7 7 7 7 7 7 7 7 7 f f 7 7 7 7 7 7 7 7 7 7 7 7 7 7 7 7 7 7 7 7 7 7 7 7 7 7 f 9 9 9 9 9 9 9 9 9 9 9 9 9 9 9 9 9 f f 7 7 7 7 7 7 7 7 7 f f 7 7 7 7 7 7 7 7 7 7 7 7 f 9 9 9 9 9 9 9 9 9 9 9 9 9 9 9 9 9 9 9 9 9 9 9 9 9 9 f f 7 7 7 7 7 7 7 7 7 7 7 7 7 7 7 7 7 7 7 7 7 7 7 7 7 7 7 7 7 7 7 7 7 7 7 7 7 7 7 f 9 9 9 
+9 9 9 9 9 f f 7 7 7 7 7 7 7 7 7 7 7 f 7 7 7 7 7 7 7 7 7 7 7 7 7 7 7 7 7 7 7 7 7 7 7 7 7 7 f f 9 9 9 9 9 9 9 9 9 9 9 9 9 9 9 f f 7 7 7 7 7 7 7 7 7 7 f 7 7 7 7 7 7 7 7 7 7 7 7 7 7 f 9 9 9 9 9 9 9 9 9 9 9 9 9 9 9 9 9 9 9 9 9 9 9 9 f f 7 7 7 7 7 7 7 f 7 7 7 7 7 7 7 7 7 7 7 7 7 7 7 7 7 7 7 7 7 7 7 7 7 7 7 7 7 7 7 7 7 f 9 9 
+9 9 9 9 9 f 7 7 7 7 7 7 7 7 7 7 7 7 7 7 7 7 7 7 7 7 7 7 7 7 7 7 7 7 7 7 7 7 7 7 7 7 7 7 7 7 f f 9 9 9 9 9 9 9 9 9 9 9 9 9 f f 7 7 7 7 7 7 7 7 7 7 7 f 7 7 7 7 7 7 7 7 7 7 7 7 7 7 f f 9 9 9 9 9 9 9 9 9 9 9 9 9 9 9 9 9 9 9 9 9 f f f 7 7 f 7 7 7 7 7 f f 7 7 7 7 7 7 7 f 7 7 7 7 7 7 7 7 7 7 7 7 7 7 7 7 7 7 7 7 7 7 7 7 f 9 9 
+9 9 9 f f 7 7 7 7 7 f 7 7 7 7 7 7 7 7 7 7 7 7 7 7 7 7 7 7 7 7 7 7 7 7 7 7 7 f f 7 7 7 7 7 7 7 f 9 9 9 9 9 9 9 9 9 9 9 9 f f 7 7 7 7 7 7 7 7 7 7 7 7 7 7 7 7 7 7 7 7 7 f 7 7 7 7 7 7 f 9 9 9 9 9 9 9 9 9 9 9 9 9 9 9 9 9 9 9 9 9 f 7 7 7 f f 7 7 7 7 7 7 f 7 7 7 7 7 7 7 f f 7 7 7 7 7 7 7 7 7 f 7 7 7 7 7 7 7 7 7 7 7 7 7 f f 9 
+9 9 f f 7 7 7 7 7 f f 7 7 7 7 7 7 7 7 7 7 7 7 7 7 7 f 7 7 7 7 7 7 7 7 7 7 7 f 7 7 7 7 7 7 7 7 f f 9 9 9 9 9 9 9 9 9 f f f 7 7 7 f f 7 7 7 7 7 7 7 7 7 7 7 7 7 7 7 7 7 f f 7 7 7 7 7 7 f 9 9 9 9 9 9 9 9 9 9 9 9 9 9 9 9 9 9 f f 7 7 7 7 f 7 7 7 7 7 7 7 f 7 7 7 7 7 7 7 7 f 7 7 7 7 7 7 7 7 7 f 7 7 7 7 7 7 7 7 7 7 7 7 7 7 f 9 
+9 f f 7 7 7 7 7 7 f 7 7 7 7 7 7 7 7 7 7 7 7 7 7 7 7 f f 7 7 7 7 7 7 7 7 7 f f 7 7 7 7 7 7 7 7 7 f 9 9 9 9 9 9 9 f f f 7 7 7 7 7 7 f 7 7 7 7 7 7 7 7 7 7 7 7 7 7 7 7 7 7 f 7 7 7 7 7 7 f 9 9 9 9 9 9 9 9 9 9 9 9 9 9 9 9 9 f f 7 7 7 7 7 7 7 7 7 7 7 7 7 7 f 7 7 7 7 7 7 7 f f 7 7 7 7 7 7 7 7 f 7 7 7 7 7 7 7 7 7 7 7 7 7 7 f f 
+9 f 7 7 7 7 7 7 7 7 7 7 7 7 7 7 7 7 7 7 7 7 7 7 7 7 7 f 7 7 7 7 7 7 7 7 7 f 7 7 7 7 7 7 7 7 7 7 7 f 9 9 9 9 9 f f 7 7 7 7 7 7 7 7 f 7 7 7 7 7 7 7 7 7 7 7 7 7 7 7 7 7 7 7 f 7 7 7 7 7 7 f 9 9 9 9 9 9 9 9 9 9 9 9 9 9 9 f f 7 7 7 7 7 7 7 7 7 7 7 7 7 7 7 7 7 7 7 7 7 7 7 7 f 7 7 7 7 7 7 7 7 f f 7 7 7 7 7 7 7 7 7 7 7 7 7 7 f 
+f f 7 7 7 7 7 7 7 7 7 7 7 7 7 7 7 7 7 7 7 7 7 7 7 7 7 7 7 7 7 7 7 7 7 7 7 7 7 7 7 7 7 7 7 7 7 7 7 f f 9 9 9 9 f 7 7 7 7 7 7 7 7 7 7 f 7 7 7 7 7 7 7 7 7 7 7 7 7 7 7 7 7 7 7 7 7 7 7 7 7 7 f 9 9 9 9 9 9 9 9 9 9 9 9 9 f 7 7 7 7 7 7 7 7 7 7 7 7 7 7 7 7 7 7 7 7 7 7 7 7 7 7 7 7 7 7 7 7 7 7 7 7 7 7 7 7 7 7 7 7 7 7 7 7 7 7 7 7 
+`)
 let X = 0
 let Mario = sprites.create(img`
 . . . . . 2 2 2 2 2 . . . . . . 
